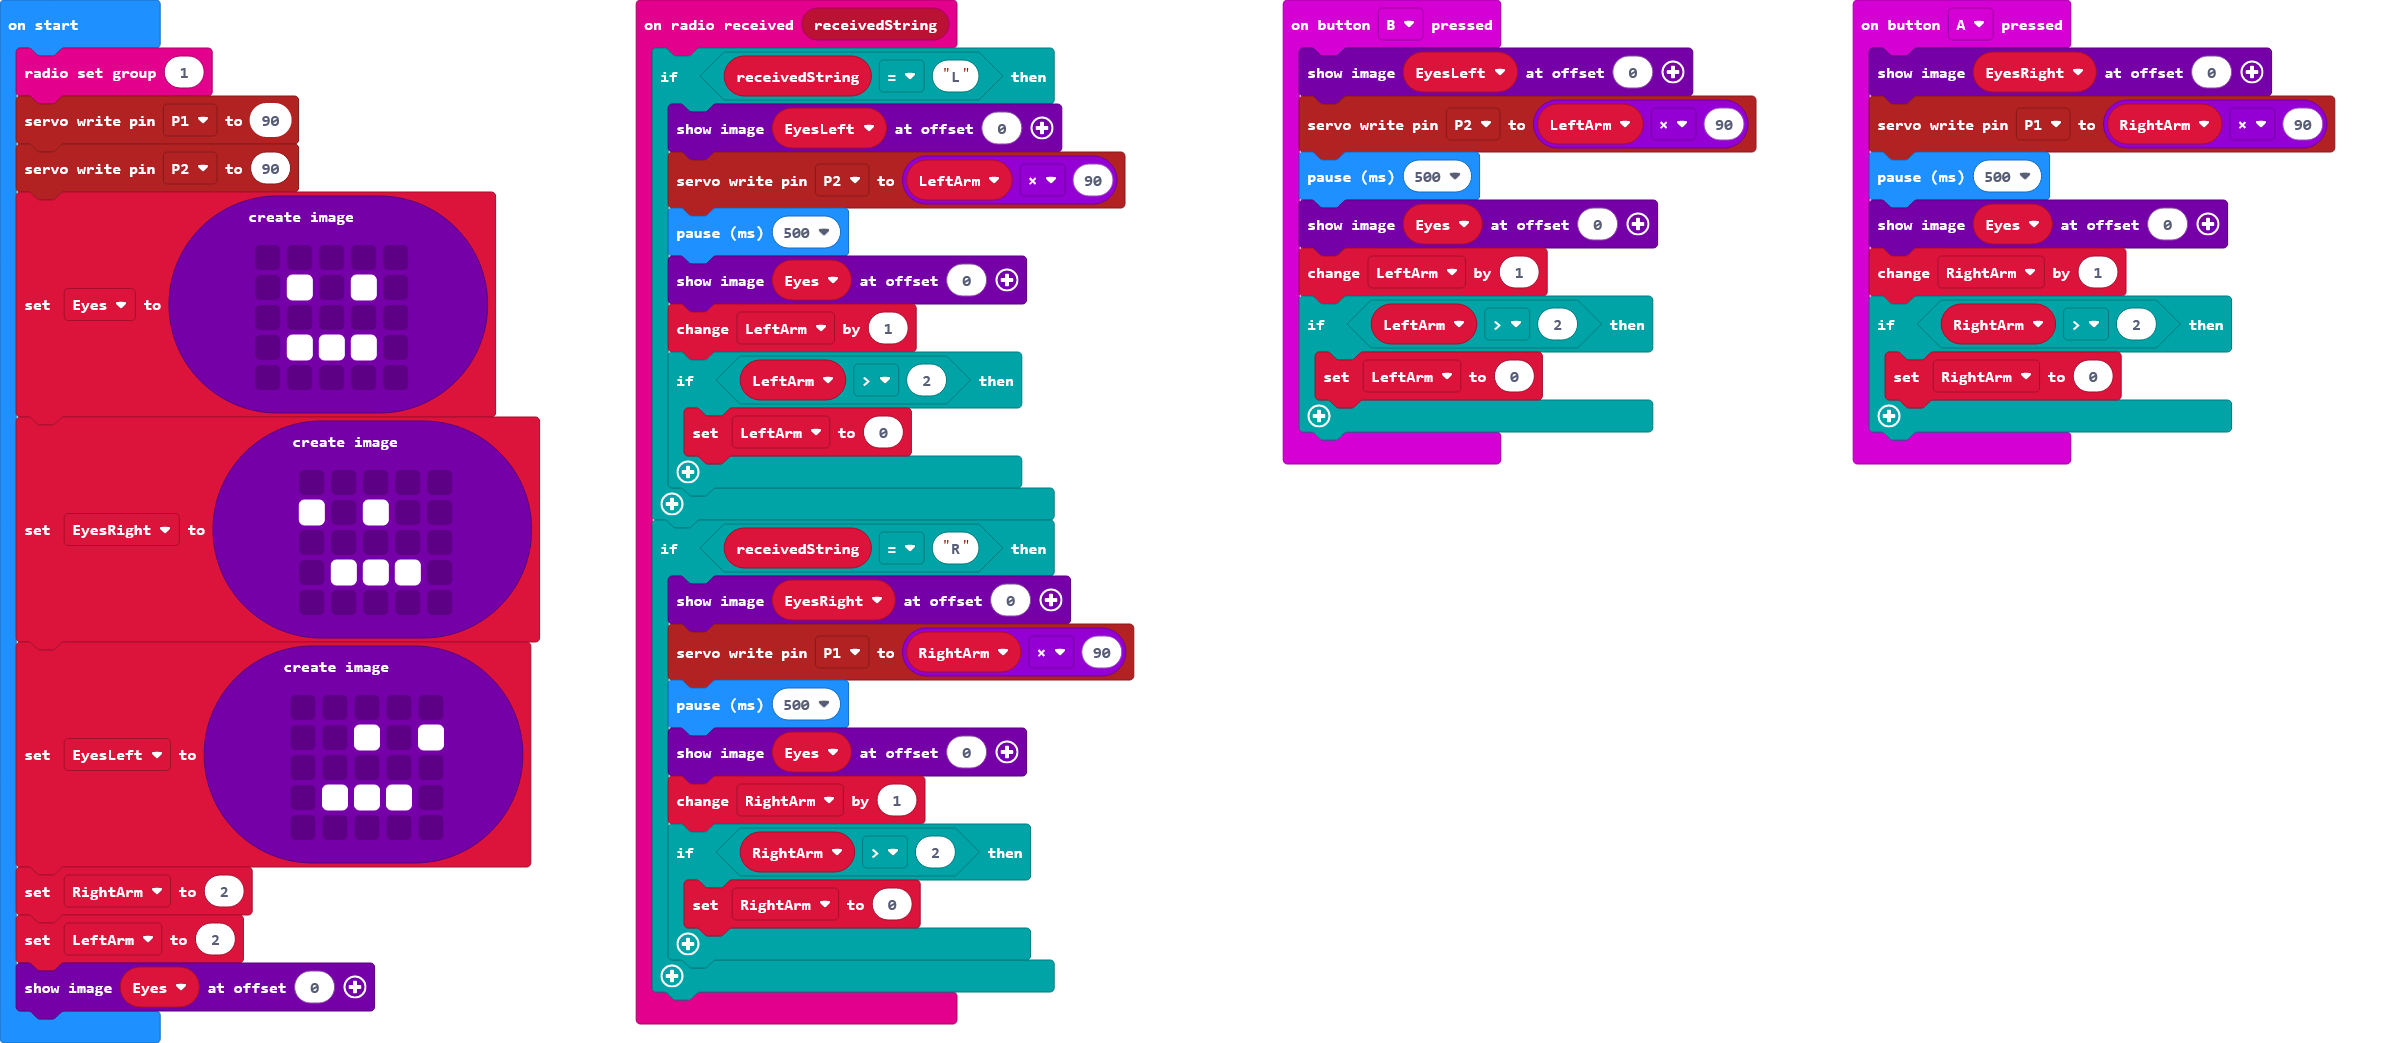
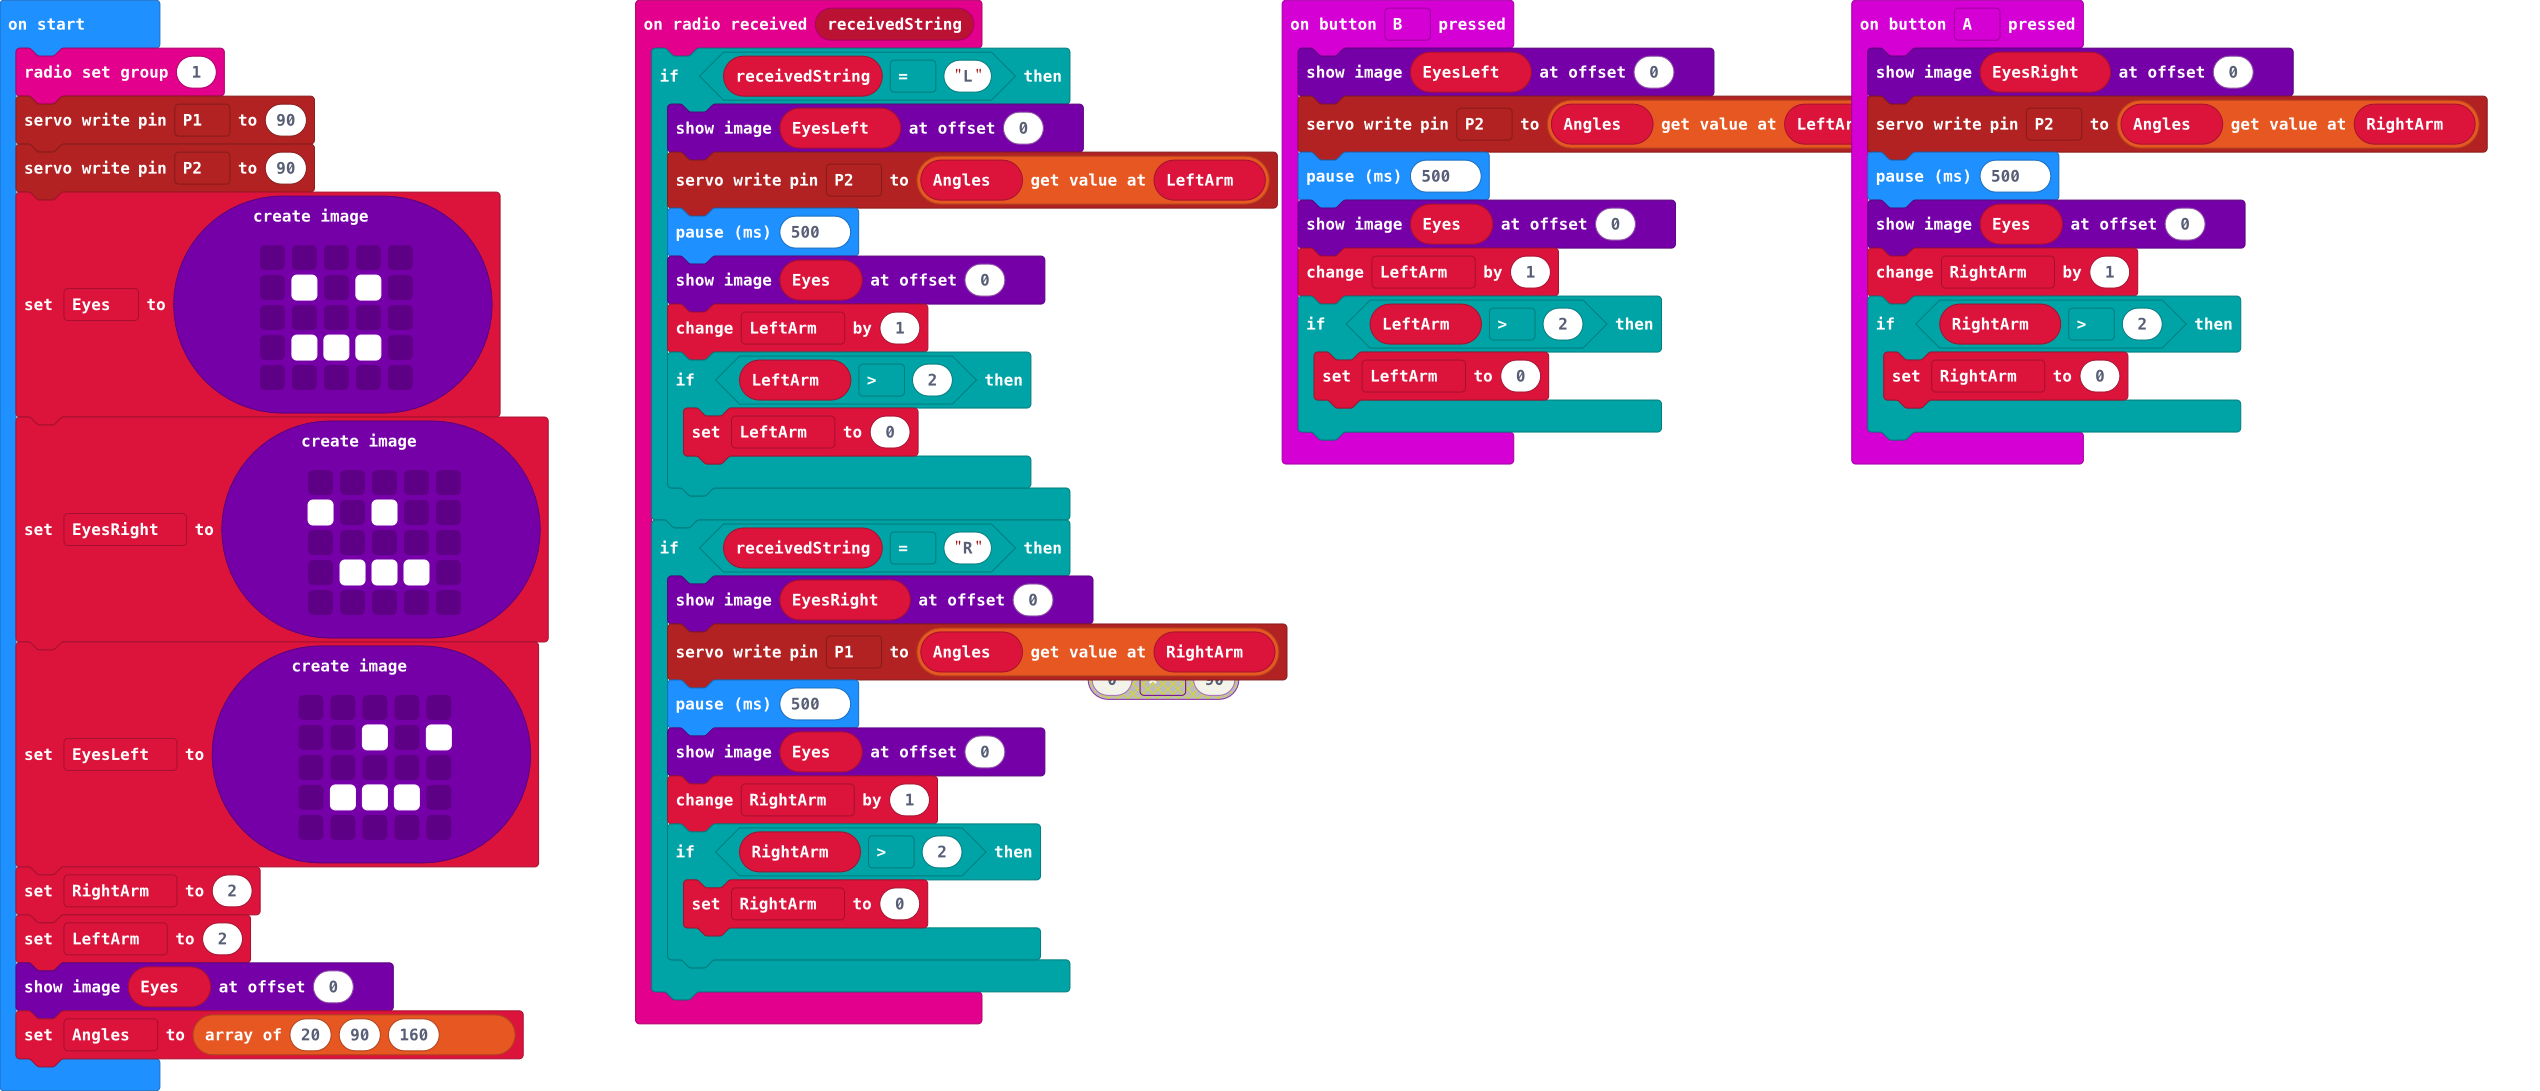
Update main.blocks, main.ts

diff --git a/main.ts b/main.ts
@@ -1,6 +1,6 @@
 input.onButtonPressed(Button.A, function () {
     EyesRight.showImage(0)
-    pins.servoWritePin(AnalogPin.P1, RightArm * 90)
+    pins.servoWritePin(AnalogPin.P2, Angles[RightArm])
     basic.pause(500)
     Eyes.showImage(0)
     RightArm += 1
@@ -11,7 +11,7 @@ input.onButtonPressed(Button.A, function () {
 radio.onReceivedString(function (receivedString) {
     if (receivedString == "L") {
         EyesLeft.showImage(0)
-        pins.servoWritePin(AnalogPin.P2, LeftArm * 90)
+        pins.servoWritePin(AnalogPin.P2, Angles[LeftArm])
         basic.pause(500)
         Eyes.showImage(0)
         LeftArm += 1
@@ -21,7 +21,7 @@ radio.onReceivedString(function (receivedString) {
     }
     if (receivedString == "R") {
         EyesRight.showImage(0)
-        pins.servoWritePin(AnalogPin.P1, RightArm * 90)
+        pins.servoWritePin(AnalogPin.P1, Angles[RightArm])
         basic.pause(500)
         Eyes.showImage(0)
         RightArm += 1
@@ -32,7 +32,7 @@ radio.onReceivedString(function (receivedString) {
 })
 input.onButtonPressed(Button.B, function () {
     EyesLeft.showImage(0)
-    pins.servoWritePin(AnalogPin.P2, LeftArm * 90)
+    pins.servoWritePin(AnalogPin.P2, Angles[LeftArm])
     basic.pause(500)
     Eyes.showImage(0)
     LeftArm += 1
@@ -40,6 +40,7 @@ input.onButtonPressed(Button.B, function () {
         LeftArm = 0
     }
 })
+let Angles: number[] = []
 let LeftArm = 0
 let RightArm = 0
 let EyesLeft: Image = null
@@ -72,3 +73,4 @@ EyesLeft = images.createImage(`
 RightArm = 2
 LeftArm = 2
 Eyes.showImage(0)
+Angles = [20, 90, 160]
